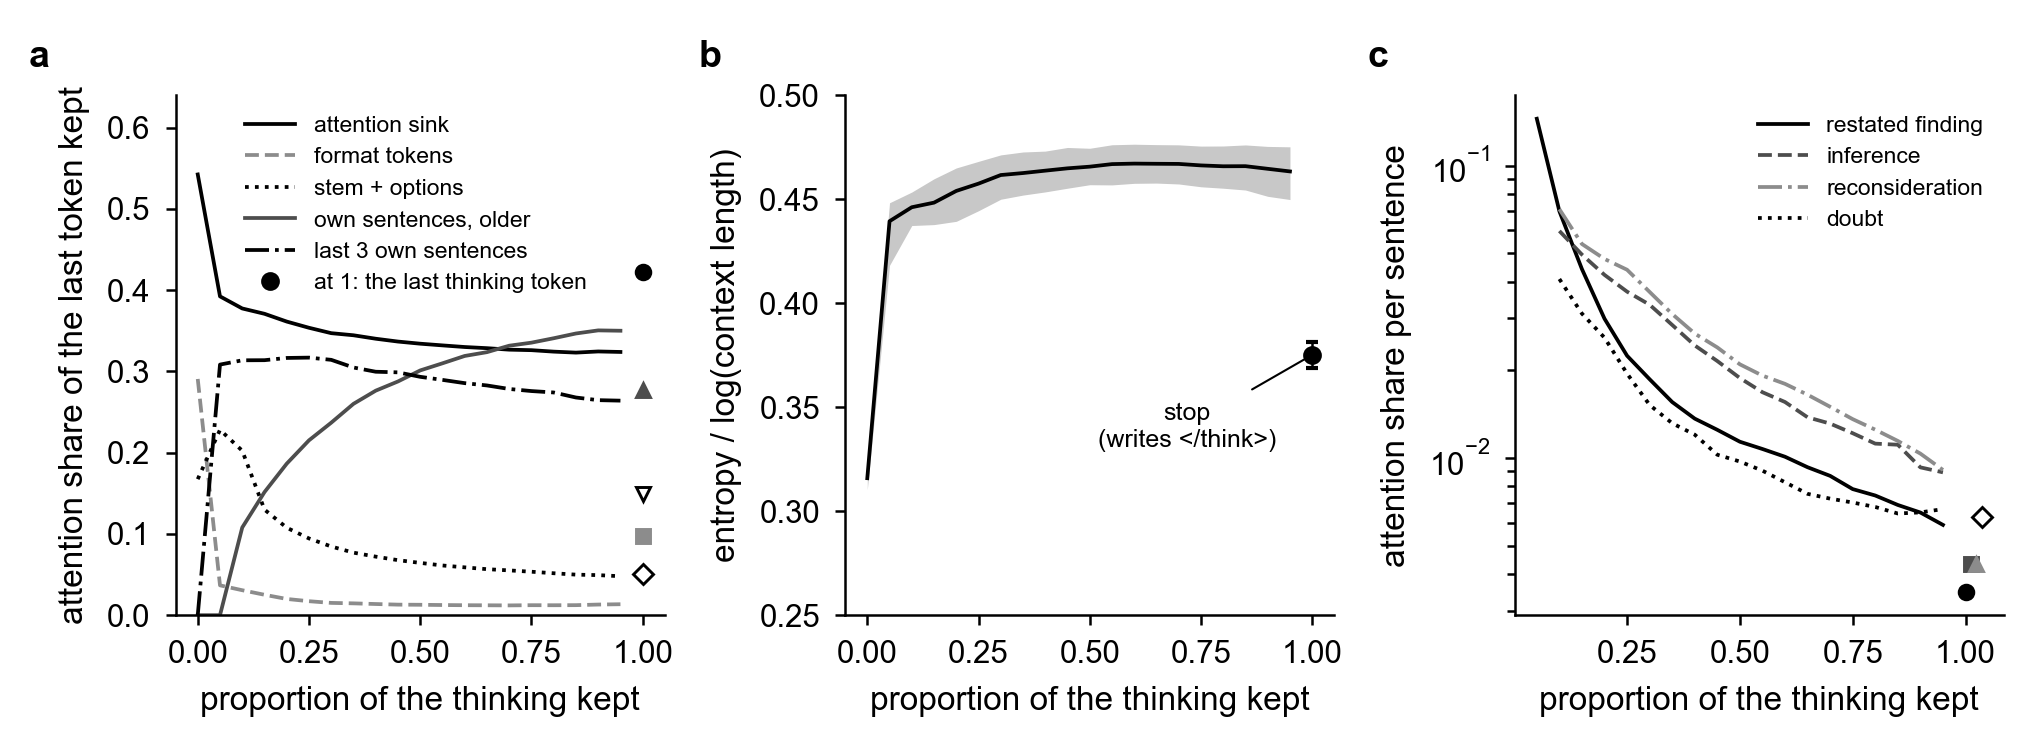
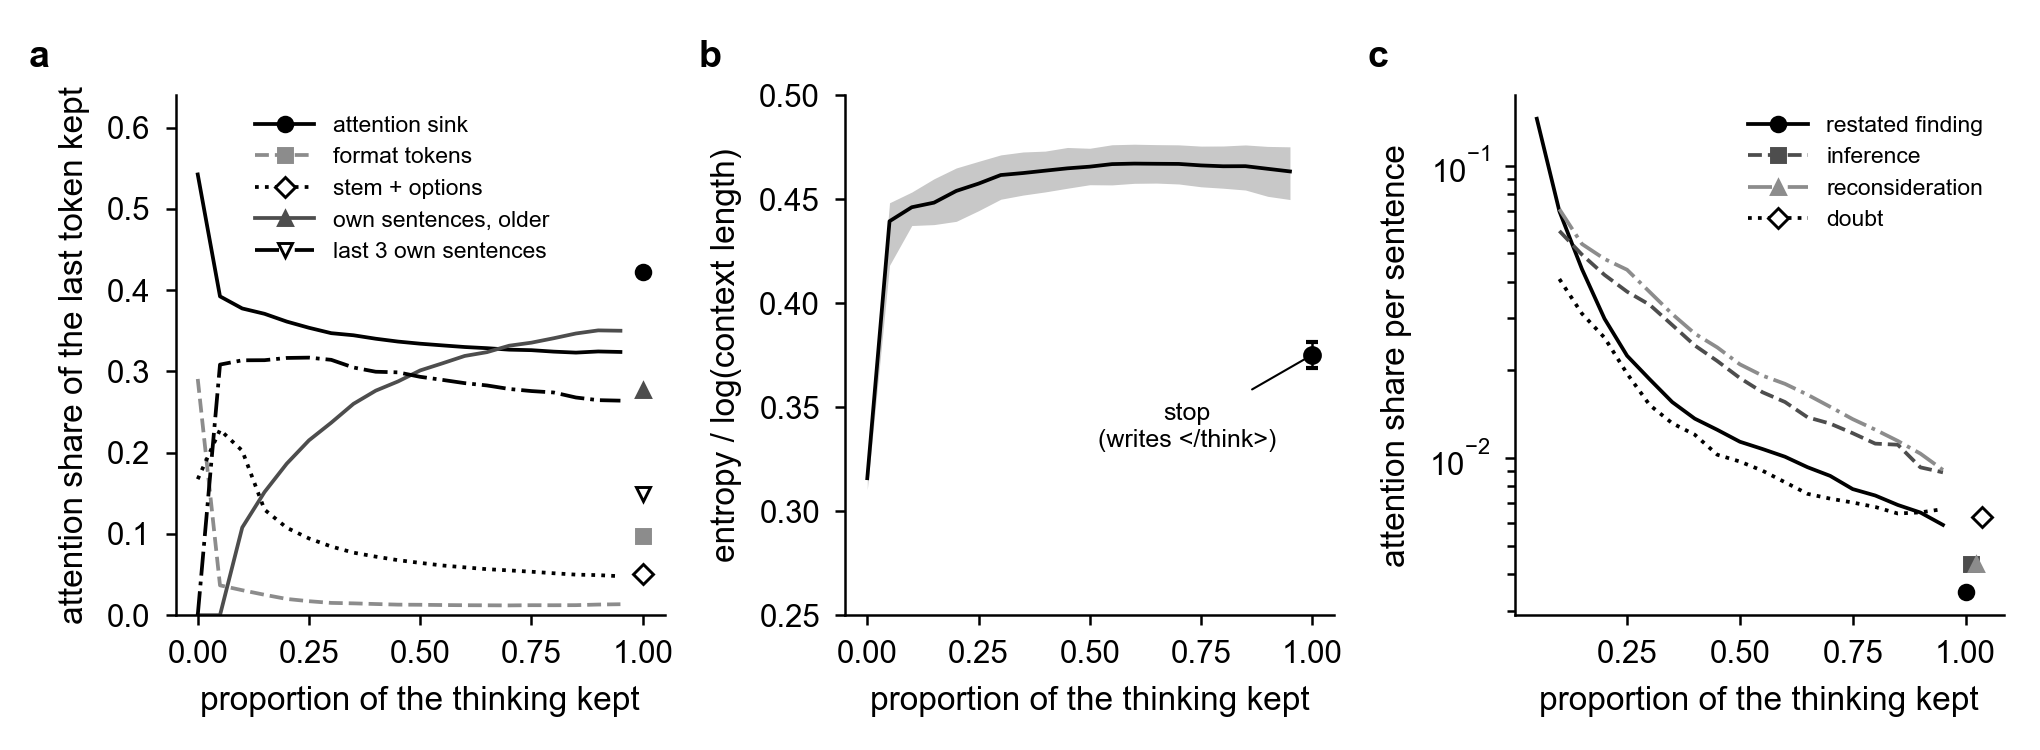
Figure 7: legend entries show each series' line and marker

Changed region(s): [[0.1235, 0.1533, 0.2779, 0.3987], [0.8647, 0.2453, 0.8956, 0.3067], [0.8647, 0.1533, 0.8956, 0.2147]]

diff --git a/src/paper_figures.py b/src/paper_figures.py
@@ -378,9 +378,8 @@ def fig4() -> None:
         ax.set_xlabel("proportion of the thinking kept")
         ax.set_ylabel("attention share of the last token kept")
         ax.set_ylim(0, 0.64)
-        handles, labels_ = ax.get_legend_handles_labels()
-        handles.append(Line2D([], [], marker="o", ms=3.5, color=BLACK, ls="none")); labels_.append("at 1: the last thinking token")
-        ax.legend(handles, labels_, fontsize=5.5, loc="upper left", bbox_to_anchor=(0.1, 1.0), handlelength=2.2)
+        handles = [Line2D([], [], color=color, ls=ls, lw=0.9, marker=mk, ms=3.5, markerfacecolor="white" if mk in ("D", "v") else color, markeredgewidth=0.7) for p, lab, color, ls, mk in FIG4_PARTS]
+        ax.legend(handles, [lab for _, lab, *_ in FIG4_PARTS], fontsize=5.5, loc="upper left", bbox_to_anchor=(0.12, 1.0), handlelength=2.6)
         ax = axes[1]
         ax.fill_between(body.t, body.ent_q25, body.ent_q75, color=LIGHT, lw=0)
         ax.plot(body.t, body.ent_norm, color=BLACK, lw=0.9)
@@ -398,7 +397,8 @@ def fig4() -> None:
         ax.set_xlabel("proportion of the thinking kept")
         ax.set_ylabel("attention share per sentence")
         ax.set_yscale("log")
-        ax.legend(fontsize=5.5, loc="upper right", handlelength=2.2)
+        handles = [Line2D([], [], color=color, ls=ls, lw=0.9, marker=mk, ms=3.5, markerfacecolor="white" if mk == "D" else color, markeredgewidth=0.7) for c, lab, color, ls, mk in CLASSES]
+        ax.legend(handles, [lab for _, lab, *_ in CLASSES], fontsize=5.5, loc="upper right", handlelength=2.6)
         for ax, letter in zip(axes, "abc"):
             ax.text(-0.3, 1.04, letter, transform=ax.transAxes, fontsize=9, fontweight="bold", va="bottom")
         fig.tight_layout(w_pad=1.2)
